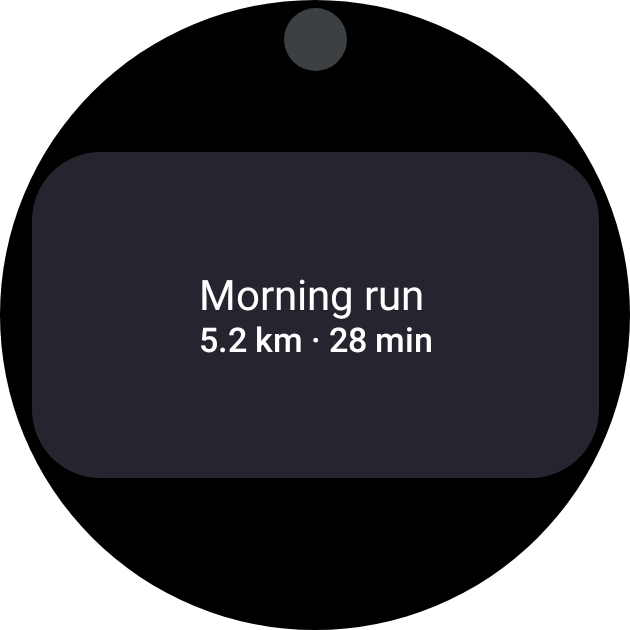
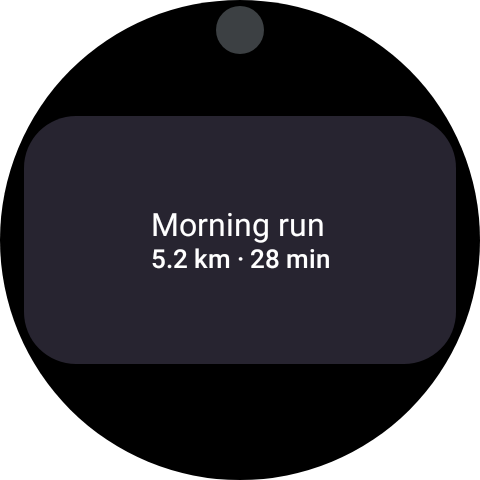
fix(remote-catalog): pin the tile sticker's frame to dpi=320
AGENTS.md pins every frame to dpi=320 (density 2.0), the scale Wear
renders are read at; the tile frame had copied the older widget frames'
bare widthDp/heightDp and rendered at the preview default. It is now a
`device = "spec:width=240dp,height=240dp,dpi=320"` frame like the
component frames in CatalogTheme.kt, so its render stem carries the
frame and WidgetContainerIrCaptureTest names it that way, as
RemoteTypographyIrCaptureTest does for its device-spec sticker.

Claude-Session: https://claude.ai/code/session_017xSuvroLAgZoVZ9z5eAZfr

Changed region(s): [[0.3125, 0.4375, 0.6875, 0.5625], [0.4688, 0.5312, 0.5, 0.5625]]

diff --git a/remote-catalog/src/test/kotlin/ee/schimke/wearm3catalog/remote/WidgetContainerIrCaptureTest.kt b/remote-catalog/src/test/kotlin/ee/schimke/wearm3catalog/remote/WidgetContainerIrCaptureTest.kt
@@ -33,7 +33,8 @@ class WidgetContainerIrCaptureTest {
       // carries the encoded document, and nothing about the round footprint exempts it.
       "WidgetContainerRoundSmallRemote",
       "WidgetContainerRoundLargeRemote",
-      "WidgetContainerTileRemote",
+      // A `device =` frame (it pins dpi=320), so the frame is part of the render's stem.
+      "WidgetContainerTileRemote_width_240dp_height_240dp_dpi_320",
     )
 
   @Test
@@ -71,7 +72,8 @@ class WidgetContainerIrCaptureTest {
         "WidgetContainerGradientRemote" to listOf("Gradient"),
         "WidgetContainerRoundSmallRemote" to listOf("Next: Standup 10:30"),
         "WidgetContainerRoundLargeRemote" to listOf("Morning run", "28 min"),
-        "WidgetContainerTileRemote" to listOf("Morning run", "28 min"),
+        "WidgetContainerTileRemote_width_240dp_height_240dp_dpi_320" to
+          listOf("Morning run", "28 min"),
       )
     for ((stem, strings) in expected) {
       val bytes = renderFile(rendersDir, stem, ext = "rc").readBytes().toString(Charsets.UTF_8)

diff --git a/remote-catalog/src/main/kotlin/ee/schimke/wearm3catalog/remote/WidgetContainerPreviews.kt b/remote-catalog/src/main/kotlin/ee/schimke/wearm3catalog/remote/WidgetContainerPreviews.kt
@@ -102,9 +102,10 @@ annotation class CatalogRemoteWidgetRoundLarge
 
 /**
  * Canvas for the **tile** sticker: the whole 240dp round screen a tile carousel page fills, the
- * same screen the squircle and round host specs above are measured for.
+ * same screen the squircle and round host specs above are measured for. Pinned to `dpi=320`,
+ * density 2.0, like the component frames in `CatalogTheme.kt`.
  */
-@Preview(showBackground = false, widthDp = 240, heightDp = 240)
+@Preview(showBackground = false, device = "spec:width=240dp,height=240dp,dpi=320")
 annotation class CatalogRemoteWidgetTile
 
 // The squircle host spec (240dp screen) from upstream's `WidgetPreviewParams`.
